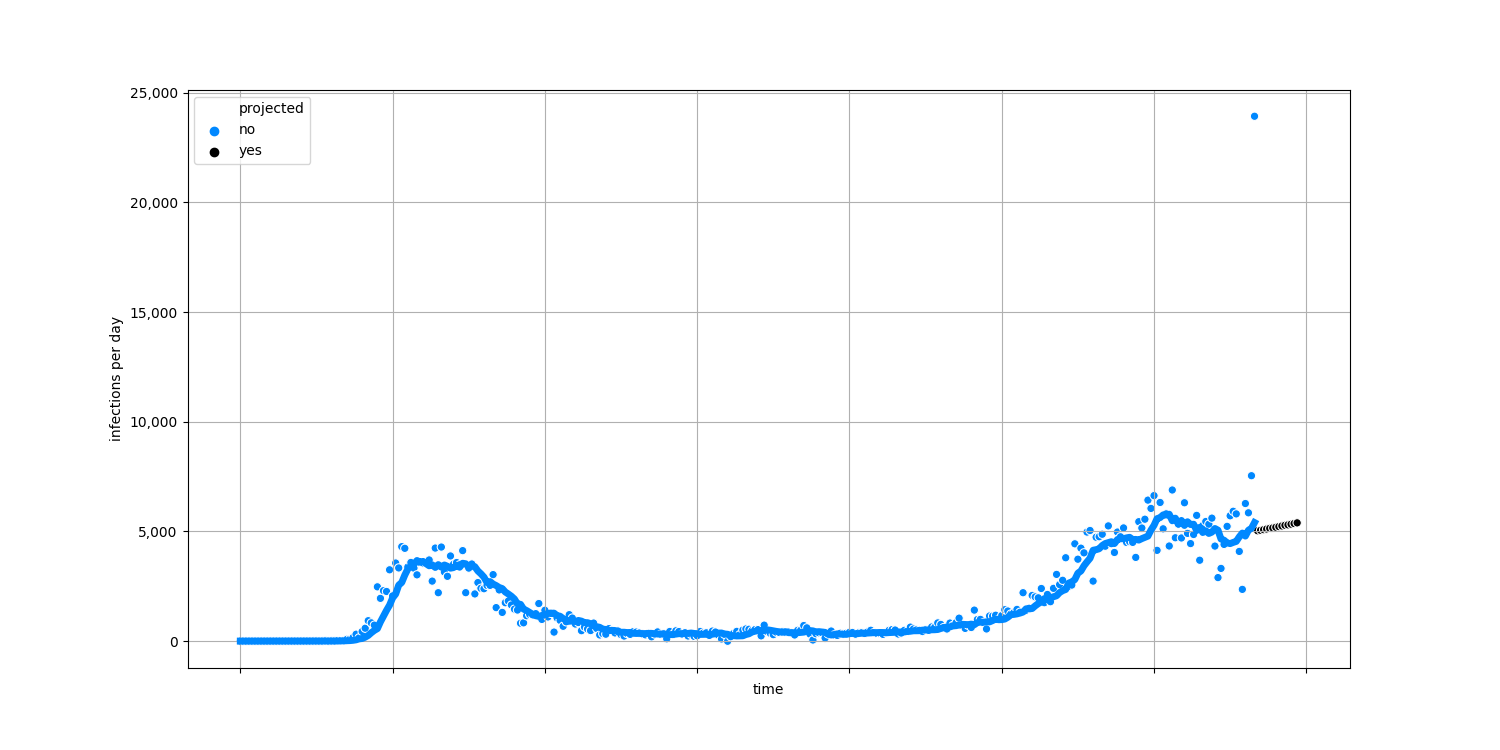
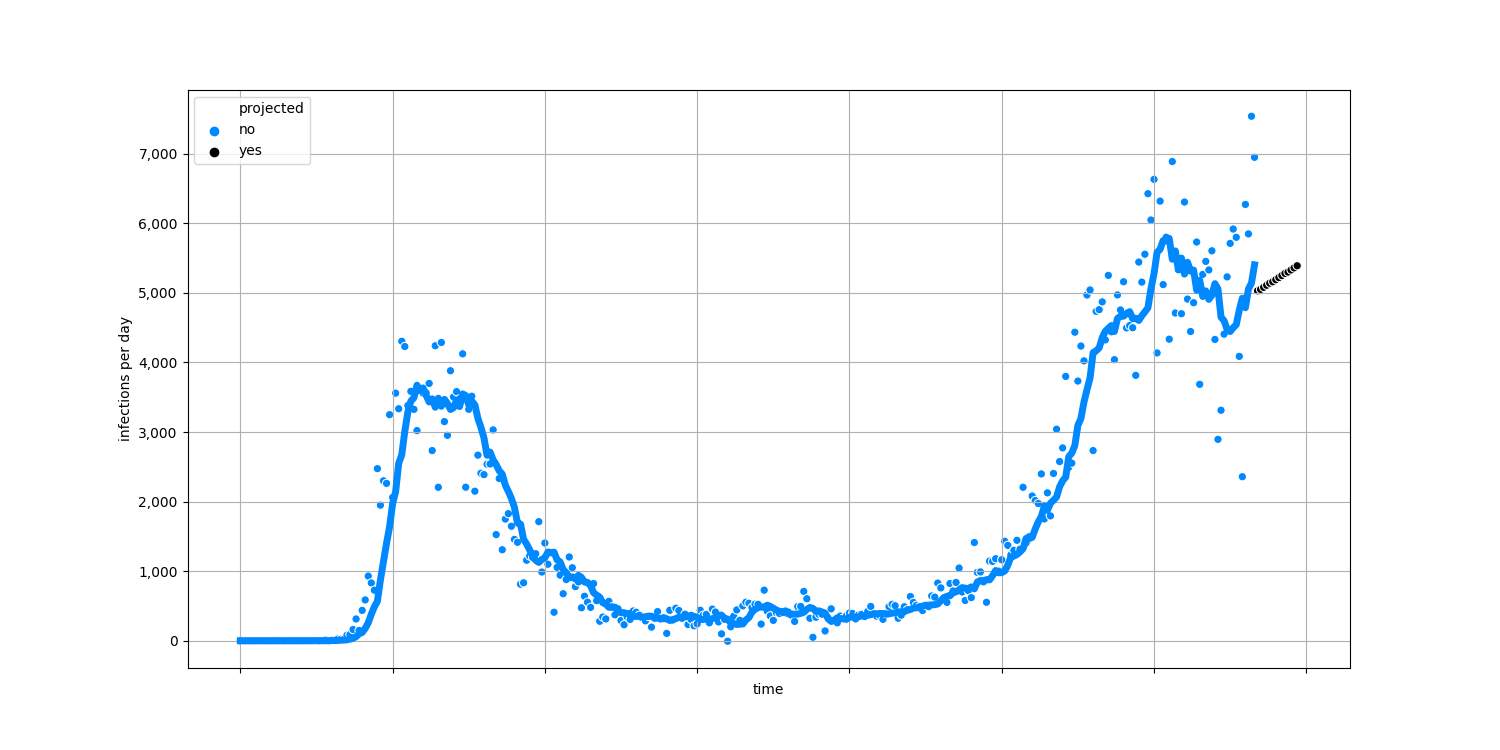
regular update

diff --git a/docs/NJ.html b/docs/NJ.html
@@ -74,11 +74,11 @@
         <div class="grid-col-9">
           <h1 class="font-body-2xl">
             New Jersey has had about 19,756 COVID-19 deaths and
-            588,731 confirmed cases.
+            571,755 confirmed cases.
             <small>
-              That's about <strong>66,282 out of every
+              That's about <strong>64,371 out of every
               1,000,000</strong> people who we know are or have
-              been infected. About <strong>3.36%</strong>
+              been infected. About <strong>3.46%</strong>
               of people who have tested positive have died.
             </small>
           </h1>
@@ -86,7 +86,7 @@
           <p class="font-body-md">
             Today there were
              <strong>
-            23,925</strong> COVID-19
+            6,949</strong> COVID-19
             cases identified.
             There are about <strong>5,403</strong> new
             cases identified every day (7-day average). At the current rate, the

diff --git a/docs/index.html b/docs/index.html
@@ -74,9 +74,9 @@
         <div class="grid-col-9">
           <h1 class="font-body-2xl">
             The United States has had about 360,054 COVID-19 deaths and
-            21,654,108 confirmed cases.
+            21,637,132 confirmed cases.
             <small>
-              That's about <strong>65,248 out of every
+              That's about <strong>65,196 out of every
               1,000,000</strong> people who we know are or have
               been infected. About <strong>1.66%</strong>
               of people who have tested positive have died.
@@ -86,7 +86,7 @@
           <p class="font-body-md">
             Today there were
              <strong>
-            310,080</strong> COVID-19
+            293,104</strong> COVID-19
             cases identified.
             There are about <strong>225,397</strong> new
             cases identified every day (7-day average). At the current rate, the
